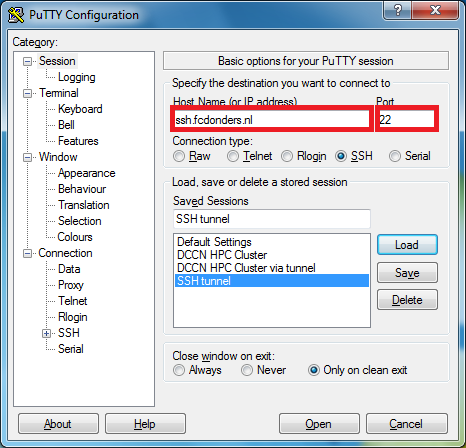
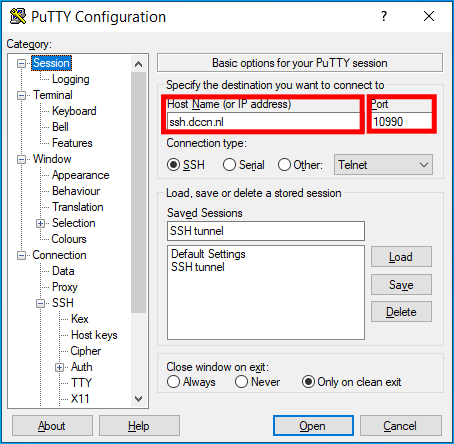
update for new ssh gateway server port

diff --git a/docs/cluster_howto/access-external-ssh.rst b/docs/cluster_howto/access-external-ssh.rst
@@ -39,7 +39,7 @@ Follow the steps below to establish the tunnel for SSH connection:
    .. figure:: figures/start_putty.png
       :figwidth: 60%
 
-#. configure putty for connecting to the SSH gateway ``ssh.fcdonders.nl``
+#. configure putty for connecting to the SSH gateway ``ssh.dccn.nl``
 
    .. figure:: figures/putty_ssh_tunnel_gateway_setup.png
       :figwidth: 60%
@@ -102,7 +102,7 @@ Follow the steps below to establish the tunnel for VNC connection:
    .. figure:: figures/start_putty.png
       :figwidth: 60%
 
-#. configure putty for connecting to the SSH gateway ``ssh.fcdonders.nl``
+#. configure putty for connecting to the SSH gateway ``ssh.dccn.nl``
 
    .. figure:: figures/putty_ssh_tunnel_gateway_setup.png
       :figwidth: 60% 
